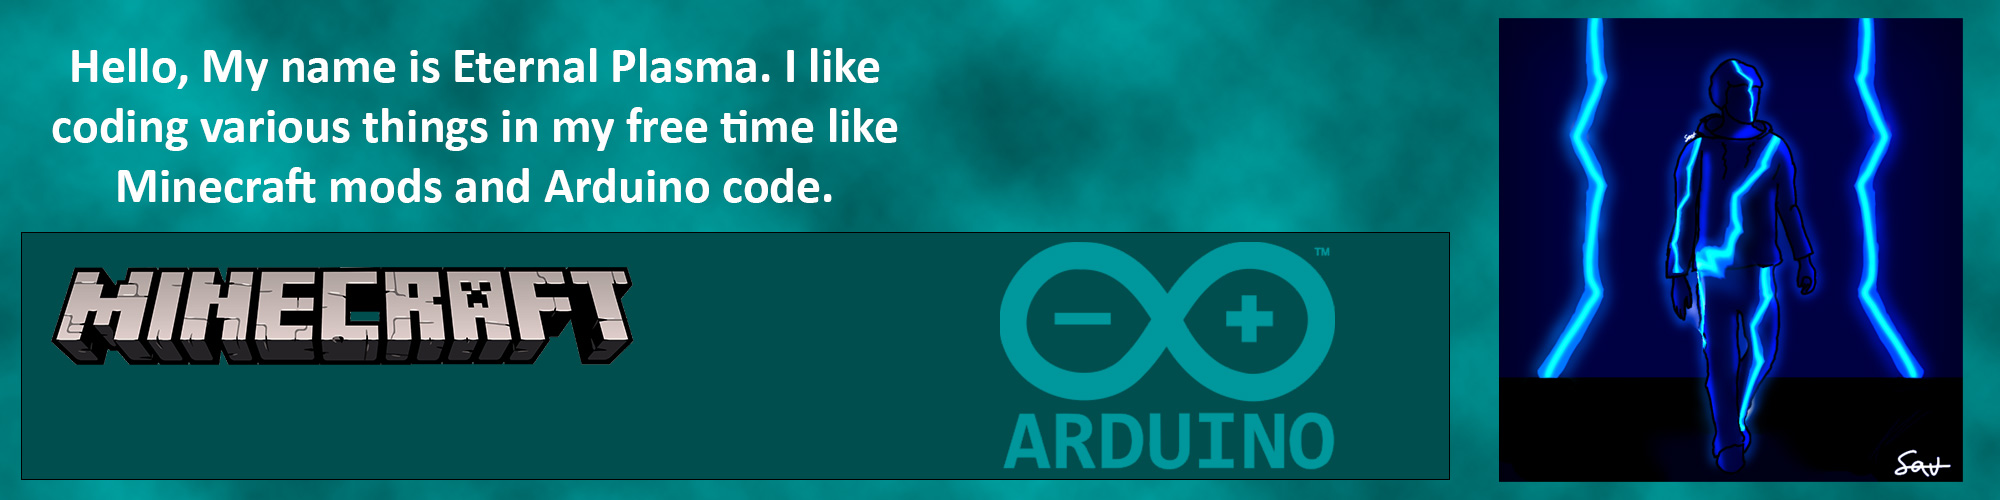
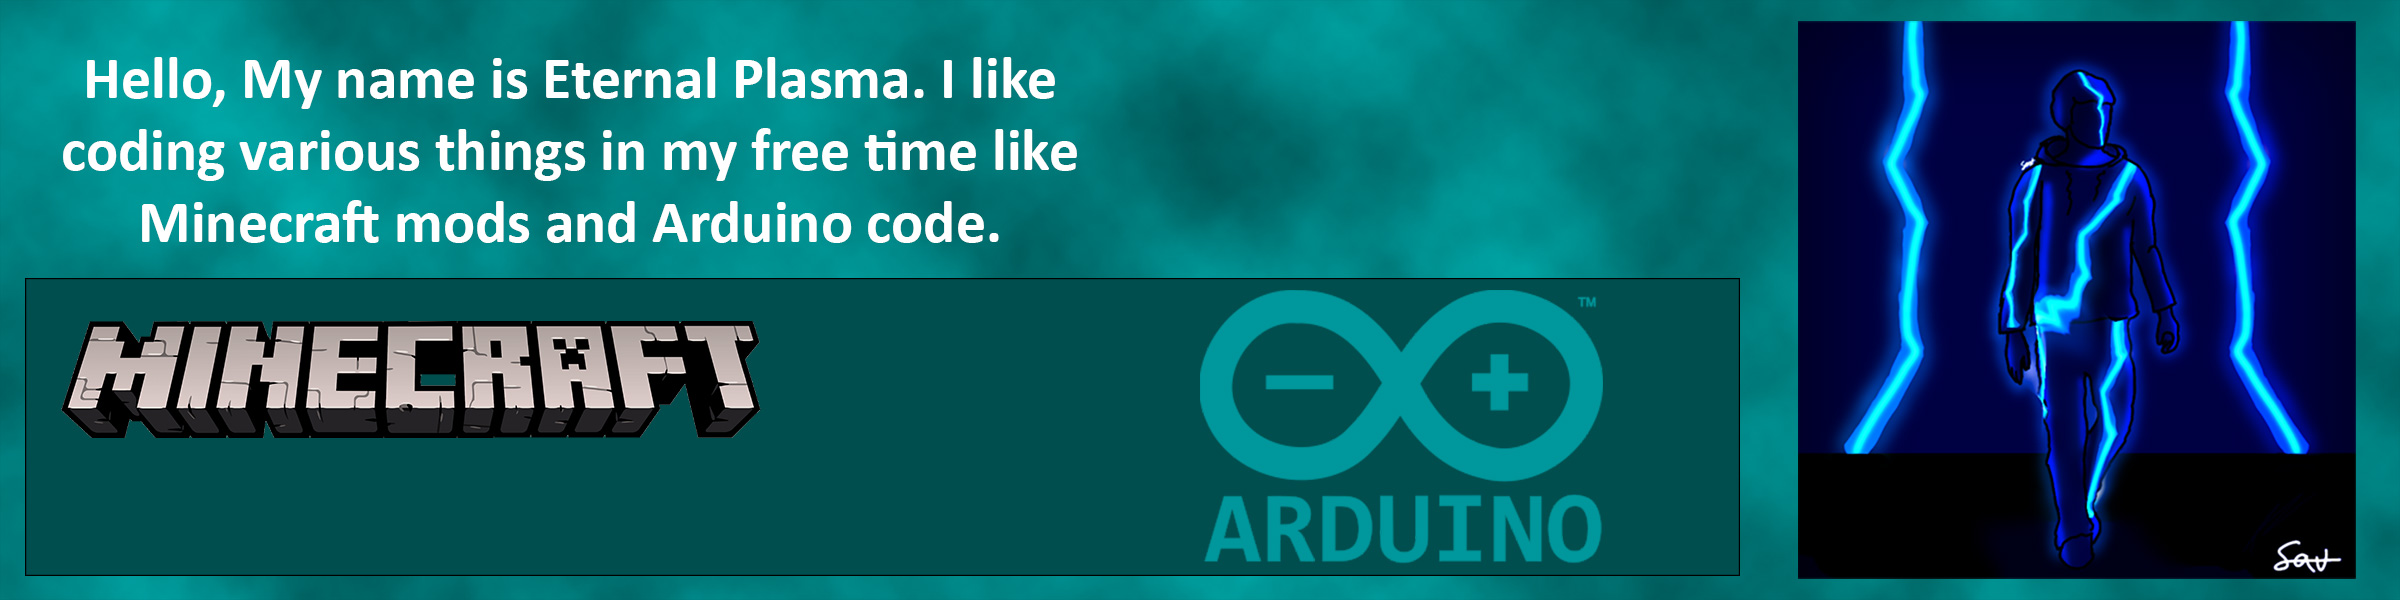
F I X

diff --git a/index.html b/index.html
@@ -28,7 +28,7 @@
   </ul> 
 </div>
 </nav>
-<div class="container text-center">
+<div class="text-center">
 <img src="img/header.jpg" class="img-fluid" alt="header">
 </div>
 <br>
